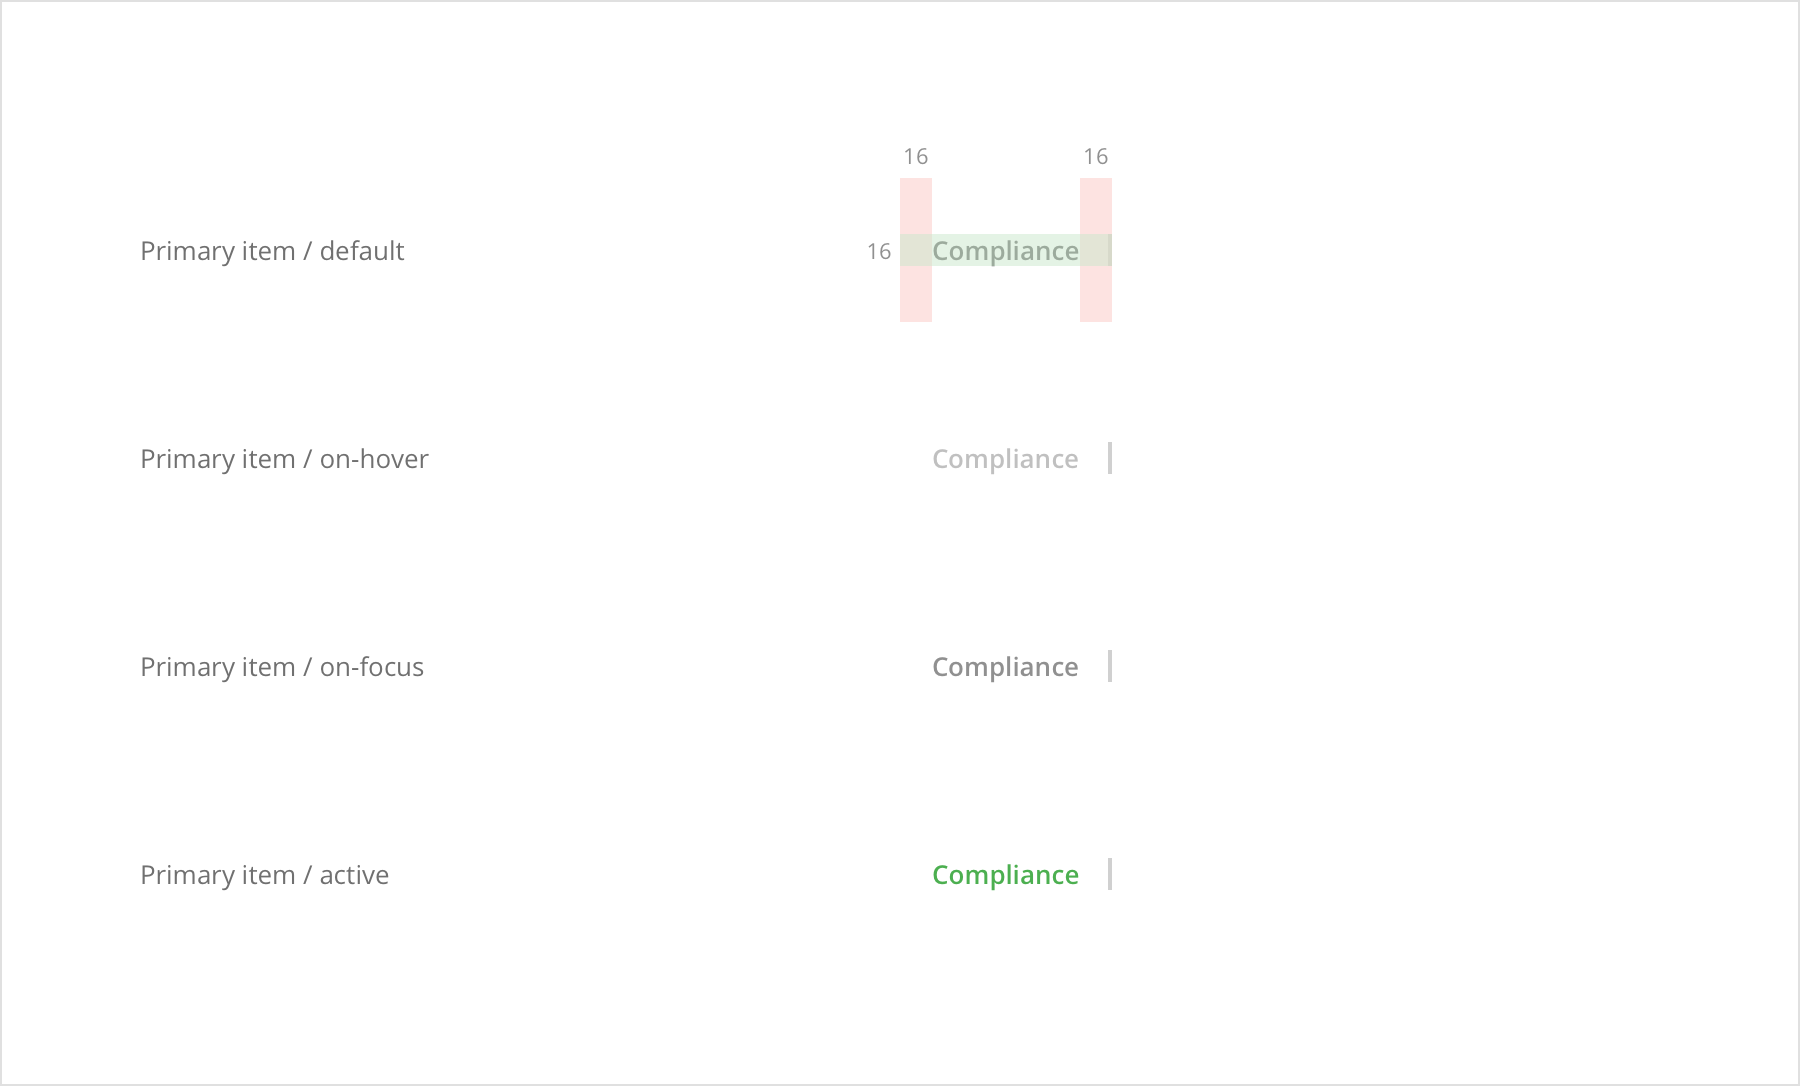
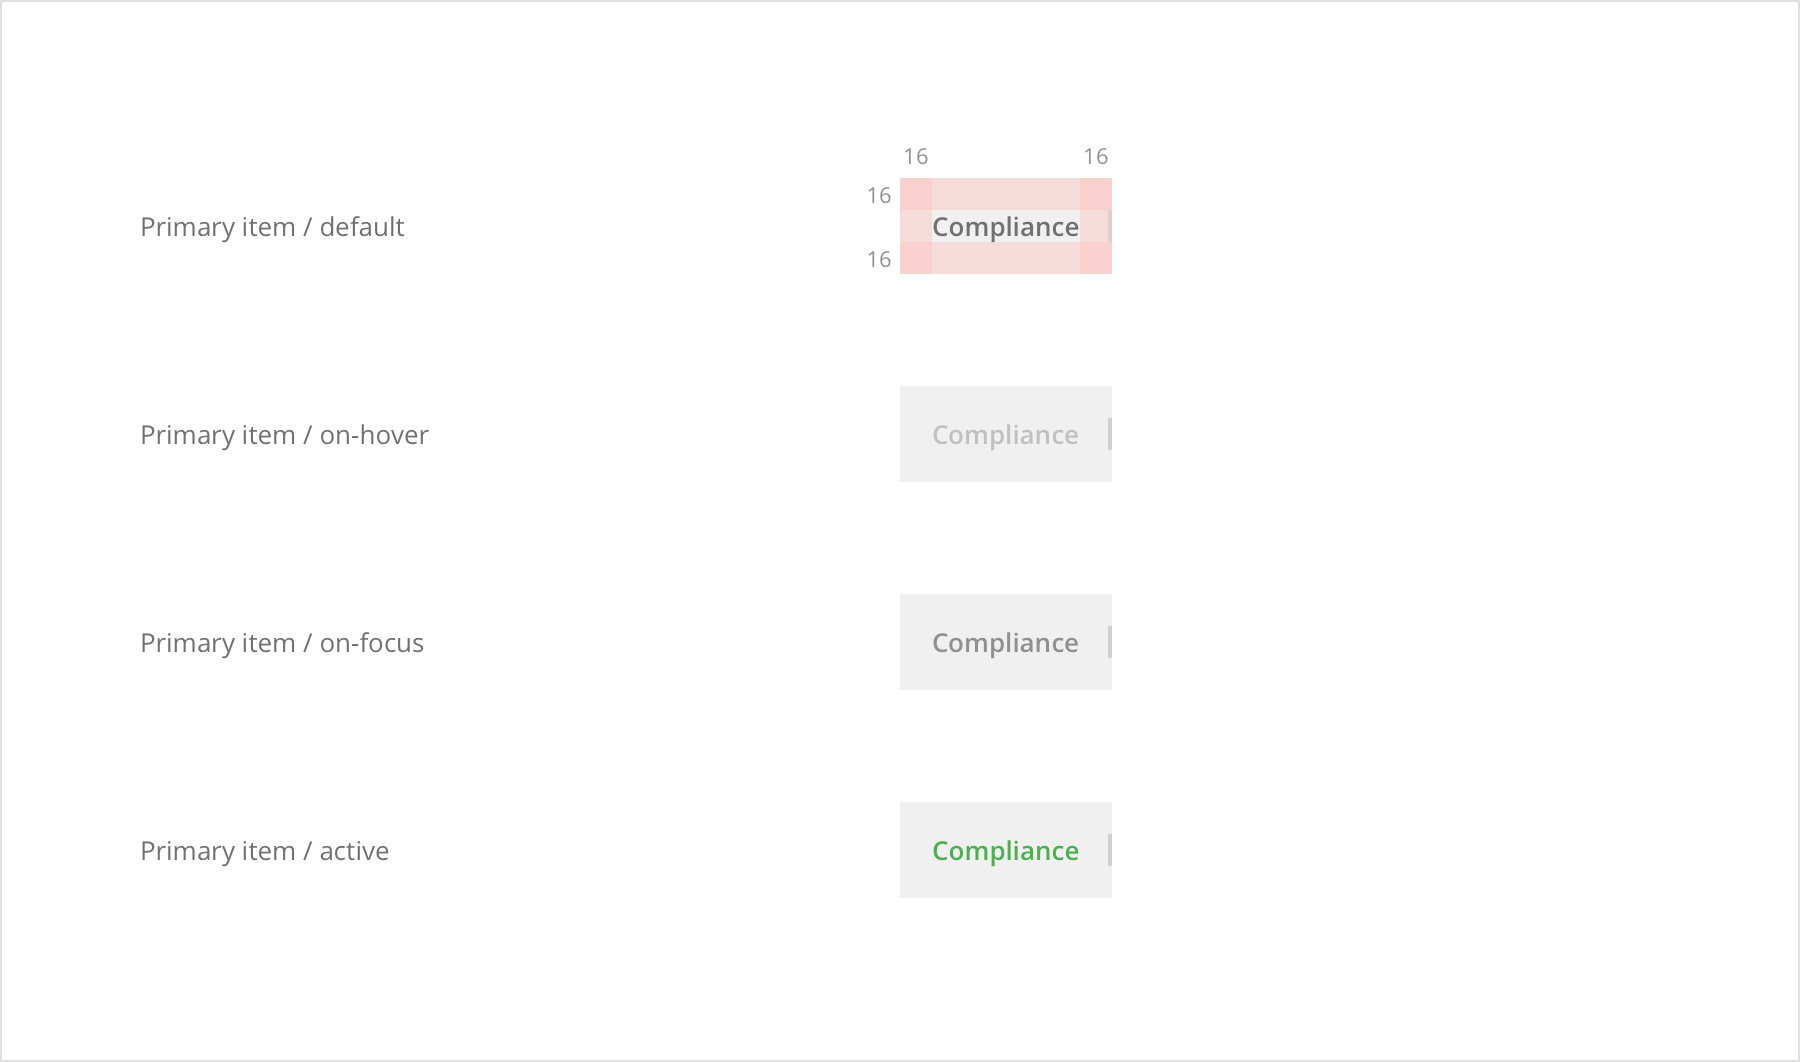
Creates assets/organisms/tab-navigations-primary-sizing.png
Auto commit by GitBook Editor

diff --git a/tab-navigations.md b/tab-navigations.md
@@ -22,7 +22,7 @@ The primary tab navigation contains the pages that are built-in the system, for 
 ![](/assets/organisms/tab-navigations-primary-sizing.png)
 
 ```
-/* Primary base */
+/* Primary section */
 height: 72px;
 padding: 0 16px 0 16px;
 background-color: $S200;
@@ -62,6 +62,11 @@ background-image: linear-gradient(-90deg, $S100 0%, $S200 75%);
 ![](/assets/organisms/tab-navigations-primary-items.png)
 
 ```
+/* Primary item / base */
+height: 48px;
+padding: 16px;
+
+
 /* Primary item / default */
 height: 16px;
 padding: 0 16px 0 16px;
@@ -69,6 +74,7 @@ border-right: 2px solid $S400;
 font-family: OpenSans;
 font-size: 13px;
 font-weight: Semibold:
+text-align: center;
 color: $B200;
 
 /* Primary item / on-hover */
@@ -96,7 +102,7 @@ The secondary tab navigation is data-driven, therefore the admin or users need t
 #### Spacing guidelines {#spacing-guidelines}
 
 * The height of the Secondary tab navigation is 56px.
-* There are paddings on the left and right of 32px.
+* There are paddings on the left and right of 16px.
 
 ![](/assets/organisms/tab-navigations-secondary-sizing.png)
 
@@ -107,6 +113,58 @@ padding: 0 32px 0 32px;
 background-color: $S200;
 border-top: 1px solid $S500;
 border-bottom: 1px solid $S500;
+```
+
+---
+
+##### Nav arrows
+
+* [Nav arrows](/atoms/nav-arrows.md) should be visible only in cases when there are more items on the left or the right side, or both.
+* When [Nav arrows](/atoms/nav-arrows.md) are visible there is a gradient mask of 32px in width next to them.
+
+![](/assets/organisms/tab-navigations-secondary-nav-arrows.png)
+
+```
+/* Nav arrow / left */
+float: left;
+
+/* Gradient mask / left */
+width: 32px;
+background-image: linear-gradient(90deg, $S100 0%, $S200 75%);
+
+/* Nav arrow / left */
+float: right;
+
+/* Gradient mask / right */
+width: 32px;
+background-image: linear-gradient(-90deg, $S100 0%, $S200 75%);
+```
+
+---
+
+##### Elements
+
+![](/assets/organisms/tab-navigations-secondary-items.png)
+
+```
+/* Secondary item / default */
+height: 16px;
+padding: 0 16px 0 16px;
+border-right: 2px solid $S400;
+font-family: OpenSans;
+font-size: 13px;
+font-weight: Semibold:
+text-align: center;
+color: $B200;
+
+/* Primary item / on-hover */
+color: $S500;
+
+/* Primary item / on-hover */
+color: $B100;
+
+/* Primary item / on-hover */
+color: $G300;
 ```
 
 
